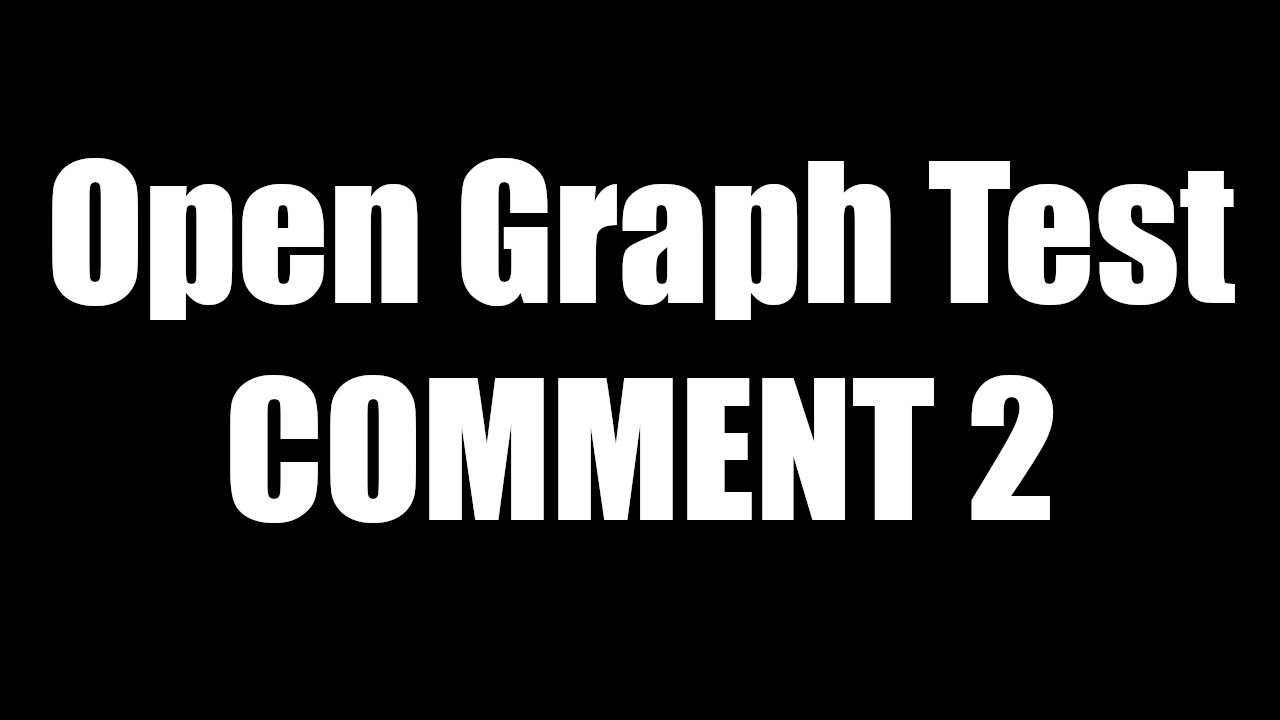
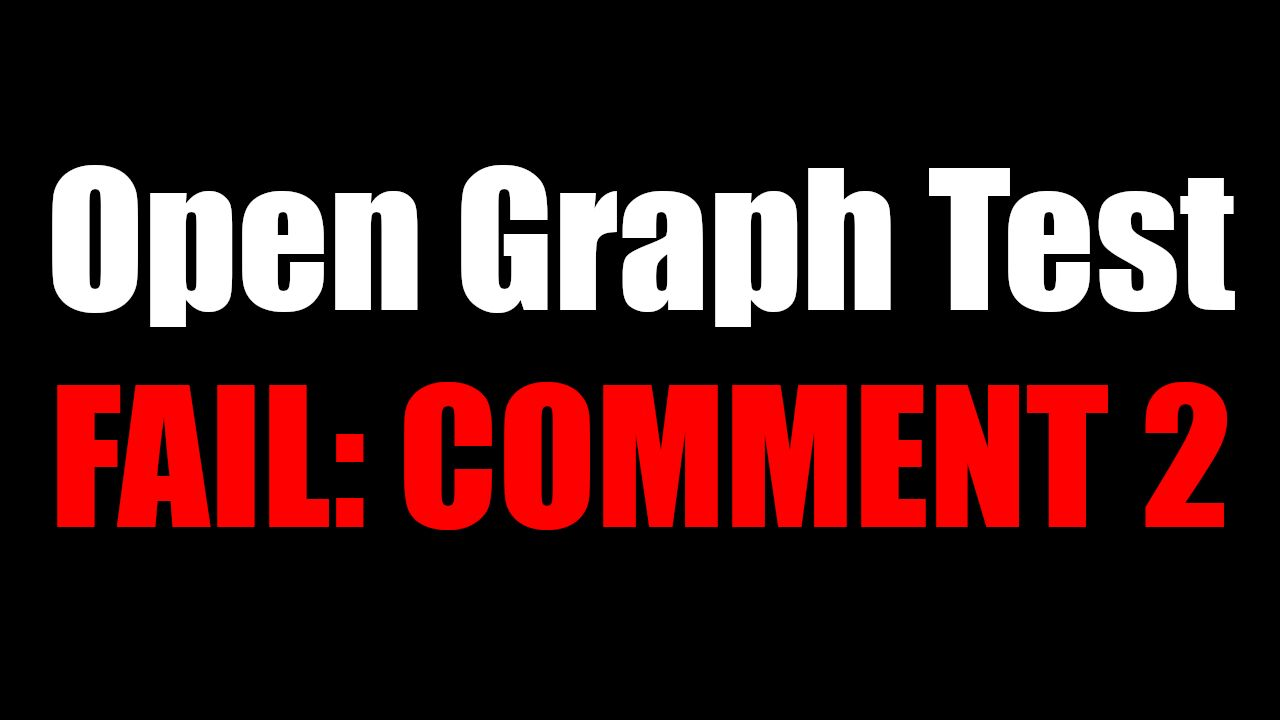
opengraphtest: highlight result on images, fix broken image links, clarify OGP and fake OGP descriptions

diff --git a/opengraphtest/index.html b/opengraphtest/index.html
@@ -11,12 +11,12 @@
       '<meta name="twitter:card" content="summary" />',
       '<meta property="og:title" content="Open Graph Test Page (FAIL: JS 1)" />',
       '<meta property="og:type" content="website" />',
-      '<meta property="og:url" content="https://attilammagyar.github.io/toys/opengraphtest/index.html?js1" />',
+      '<meta property="og:url" content="https://attilammagyar.github.io/toys/opengraphtest/index.html" />',
       '<meta property="og:image" content="https://attilammagyar.github.io/toys/opengraphtest/opengraphtest-js1.jpg" />',
       '<meta property="og:image:alt" content="Open Graph Test Page (FAIL: JS 1) image" />',
       '<meta property="og:image:width" content="1280" />',
       '<meta property="og:image:height" content="720" />',
-      '<meta property="og:description" content="Open Graph Test Page (FAIL: JS 1)" />'
+      '<meta property="og:description" content="Bad news: your HTML or OGP parser is broken. (FAIL: JS 1)" />'
   ];
   //-->
   </script>
@@ -25,41 +25,38 @@
   <meta name="twitter:card" content="summary" />
   <meta property="og:title" content="Open Graph Test Page (FAIL: COMMENT 1)" />
   <meta property="og:type" content="website" />
-  <meta property="og:url" content="https://attilammagyar.github.io/toys/opengraphtest/index.html?comment1" />
+  <meta property="og:url" content="https://attilammagyar.github.io/toys/opengraphtest/index.html" />
   <meta property="og:image" content="https://attilammagyar.github.io/toys/opengraphtest/opengraphtest-comment1.jpg" />
   <meta property="og:image:alt" content="Open Graph Test Page (FAIL: COMMENT 1) image" />
   <meta property="og:image:width" content="1280" />
   <meta property="og:image:height" content="720" />
-  <meta property="og:description" content="Open Graph Test Page (FAIL: COMMENT 1)" />
+  <meta property="og:description" content="Bad news: your HTML or OGP parser is broken. (FAIL: COMMENT 1)" />
   -->
 
   <style type="text/css">
   html, body { background-color: #000; color: #fff; font-family: sans-serif; }
-  .correct { color: #0f7; }
-  .broken { color: #f57; font-weight: bold; }
-
   /*
   <meta name="twitter:card" content="summary" />
   <meta property="og:title" content="Open Graph Test Page (FAIL: CSS)" />
   <meta property="og:type" content="website" />
-  <meta property="og:url" content="https://attilammagyar.github.io/toys/opengraphtest/index.html?css" />
+  <meta property="og:url" content="https://attilammagyar.github.io/toys/opengraphtest/index.html" />
   <meta property="og:image" content="https://attilammagyar.github.io/toys/opengraphtest/opengraphtest-css.jpg" />
   <meta property="og:image:alt" content="Open Graph Test Page (FAIL: CSS) image" />
   <meta property="og:image:width" content="1280" />
   <meta property="og:image:height" content="720" />
-  <meta property="og:description" content="Open Graph Test Page (FAIL: CSS)" />
+  <meta property="og:description" content="Bad news: your HTML or OGP parser is broken. (FAIL: CSS)" />
   */
   </style>
 
   <meta name="twitter:card" content="summary" />
   <meta property="og:title" content="Open Graph Test Page (OK: HTML)" />
   <meta property="og:type" content="website" />
-  <meta property="og:url" content="https://attilammagyar.github.io/toys/opengraphtest/index.html?html" />
-  <meta property="og:image" content="https://attilammagyar.github.io/toys/opengraphtest/opengraphtest/index.html.jpg" />
+  <meta property="og:url" content="https://attilammagyar.github.io/toys/opengraphtest/index.html" />
+  <meta property="og:image" content="https://attilammagyar.github.io/toys/opengraphtest/opengraphtest-html.jpg" />
   <meta property="og:image:alt" content="Open Graph Test Page (OK: HTML) image" />
   <meta property="og:image:width" content="1280" />
   <meta property="og:image:height" content="720" />
-  <meta property="og:description" content="Open Graph Test Page (OK: HTML)" />
+  <meta property="og:description" content="Congratulations, your software found the correct OGP info on this website. (OK: HTML)" />
 </head>
 <body>
   <h1>Open Graph Test Page</h1>
@@ -71,46 +68,18 @@
     marked as "OK: HTML", then it is broken and you should get it fixed.
   </p>
 
-  <div id="result">
-  </div>
-
-  <script type="text/javascript">
-  <!--
-  (function ()
-  {
-    let mtch = window.location.href.match(/\?(.*)$/),
-        result = document.getElementById("result"),
-        is_broken;
-
-    if (mtch) {
-      is_broken = mtch[1] === "html";
-
-      result.innerText = (
-        "You have come here via a URL which ends with \""
-        + mtch[1]
-        + "\". That looks "
-        + (is_broken ? "correct" : "broken")
-        + "."
-      );
-
-      result.className = is_broken ? "correct" : "broken";
-    }
-  })();
-  //-->
-  </script>
-
   <script type="text/javascript">
   <!--
   var og_in_js = [
       '<meta name="twitter:card" content="summary" />',
       '<meta property="og:title" content="Open Graph Test Page (FAIL: JS 2)" />',
       '<meta property="og:type" content="website" />',
-      '<meta property="og:url" content="https://attilammagyar.github.io/toys/opengraphtest/index.html?js2" />',
+      '<meta property="og:url" content="https://attilammagyar.github.io/toys/opengraphtest/index.html" />',
       '<meta property="og:image" content="https://attilammagyar.github.io/toys/opengraphtest/opengraphtest-js2.jpg" />',
       '<meta property="og:image:alt" content="Open Graph Test Page (FAIL: JS 2) image" />',
       '<meta property="og:image:width" content="1280" />',
       '<meta property="og:image:height" content="720" />',
-      '<meta property="og:description" content="Open Graph Test Page (FAIL: JS 2)" />',
+      '<meta property="og:description" content="Bad news: your HTML or OGP parser is broken. (FAIL: JS 2)" />',
   ];
   //-->
   </script>
@@ -119,12 +88,12 @@
   <meta name="twitter:card" content="summary" />
   <meta property="og:title" content="Open Graph Test Page (FAIL: COMMENT 2)" />
   <meta property="og:type" content="website" />
-  <meta property="og:url" content="https://attilammagyar.github.io/toys/opengraphtest/index.html?comment2" />
+  <meta property="og:url" content="https://attilammagyar.github.io/toys/opengraphtest/index.html" />
   <meta property="og:image" content="https://attilammagyar.github.io/toys/opengraphtest/opengraphtest-comment2.jpg" />
   <meta property="og:image:alt" content="Open Graph Test Page (FAIL: COMMENT 2) image" />
   <meta property="og:image:width" content="1280" />
   <meta property="og:image:height" content="720" />
-  <meta property="og:description" content="Open Graph Test Page (FAIL: COMMENT 2)" />
+  <meta property="og:description" content="Bad news: your HTML or OGP parser is broken. (FAIL: COMMENT 2)" />
   -->
 </body>
 </html>
